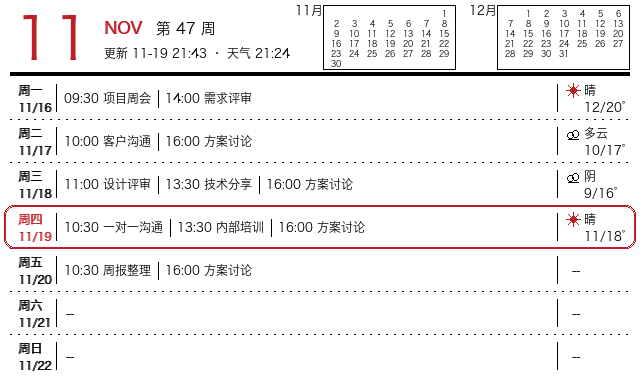
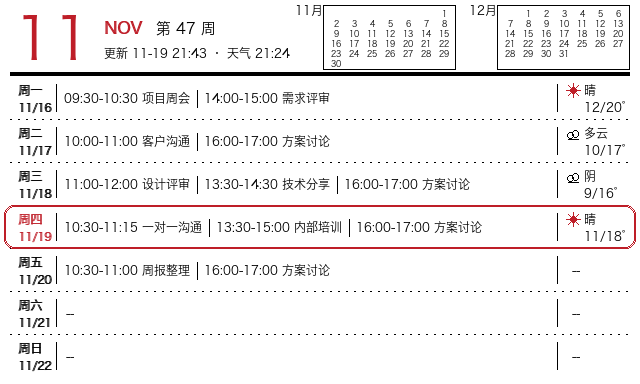
日程显示起止时间
DTEND 的时刻也解析出来，格式为 HH:MM-HH:MM；
全天事件仍显示「全天」，跨天事件只显示开始时间（避免 22:00-01:00 造成误读）。
同步更新定版图的示例数据。

diff --git a/tools/render_final.py b/tools/render_final.py
@@ -32,13 +32,13 @@ F13B, F13, F12B, F12, F16B, F18B, F64, F8 = (
 # 示例数据，全部为占位内容（不要放真实日程，这张图会进仓库）
 DAYS = [
     # 周几, 日期, 天气, 低/高, 事件
-    ("周一", "11/16", "晴", "12/20", ["09:30 项目周会", "14:00 需求评审"]),
-    ("周二", "11/17", "多云", "10/17", ["10:00 客户沟通", "16:00 方案讨论"]),
-    ("周三", "11/18", "阴", "9/16", ["11:00 设计评审", "13:30 技术分享",
-                                    "16:00 方案讨论"]),
-    ("周四", "11/19", "晴", "11/18", ["10:30 一对一沟通", "13:30 内部培训",
-                                     "16:00 方案讨论"]),
-    ("周五", "11/20", "", "", ["10:30 周报整理", "16:00 方案讨论"]),
+    ("周一", "11/16", "晴", "12/20", ["09:30-10:30 项目周会", "14:00-15:00 需求评审"]),
+    ("周二", "11/17", "多云", "10/17", ["10:00-11:00 客户沟通", "16:00-17:00 方案讨论"]),
+    ("周三", "11/18", "阴", "9/16", ["11:00-12:00 设计评审", "13:30-14:30 技术分享",
+                                    "16:00-17:00 方案讨论"]),
+    ("周四", "11/19", "晴", "11/18", ["10:30-11:15 一对一沟通", "13:30-15:00 内部培训",
+                                     "16:00-17:00 方案讨论"]),
+    ("周五", "11/20", "", "", ["10:30-11:00 周报整理", "16:00-17:00 方案讨论"]),
     ("周六", "11/21", "", "", []),
     ("周日", "11/22", "", "", []),
 ]

diff --git a/firmware/epaper_week/net_direct.h b/firmware/epaper_week/net_direct.h
@@ -376,8 +376,14 @@ static bool fetchCalendarDirect(const char *email, const char *pass, const DayDa
     for (int j = 0; j < n; j++) {
       const RawEvent &e = parser.ev[sorted[j].idx];
       Ev &tgt = d.ev[d.n++];
+      int startMin = (int)e.hh * 60 + (int)e.mm;
+      int endMin = (int)e.ehh * 60 + (int)e.emm;
       if (e.allDay) {
         strncpy(tgt.t, "全天", sizeof(tgt.t) - 1);
+      } else if (endMin > startMin) {
+        // 起止时间（同一事件跨天时不显示结束，避免"22:00-01:00"看着像出错）
+        snprintf(tgt.t, sizeof(tgt.t), "%02u:%02u-%02u:%02u", (unsigned)(e.hh % 24),
+                 (unsigned)(e.mm % 60), (unsigned)(e.ehh % 24), (unsigned)(e.emm % 60));
       } else {
         snprintf(tgt.t, sizeof(tgt.t), "%02u:%02u", (unsigned)(e.hh % 24), (unsigned)(e.mm % 60));
       }

diff --git a/firmware/epaper_week/ics.h b/firmware/epaper_week/ics.h
@@ -8,6 +8,7 @@
 struct RawEvent {
   int16_t y, mo, d;
   int16_t hh, mm;
+  int16_t ehh, emm;      // DTEND 的时刻，用来显示起止时间
   int16_t ey, emo, ed;   // DTEND 的日期，跨天事件用
   char summary[48];
   uint8_t freq;      // 0=不重复 1=DAILY 2=WEEKLY 3=MONTHLY
@@ -114,9 +115,10 @@ class IcsParser {
         cur.allDay = ad;
       } else if (head.startsWith("DTEND")) {
         bool ad = false;
-        int16_t ey, emo, ed, eh, em;
+        int16_t ey, emo, ed, eh = 0, em = 0;
         if (parseIcsDateTime(val, ad, ey, emo, ed, eh, em)) {
           cur.ey = ey; cur.emo = emo; cur.ed = ed;
+          cur.ehh = eh; cur.emm = em;
         }
       } else if (head.startsWith("SUMMARY")) {
         copySummary(cur, val);
